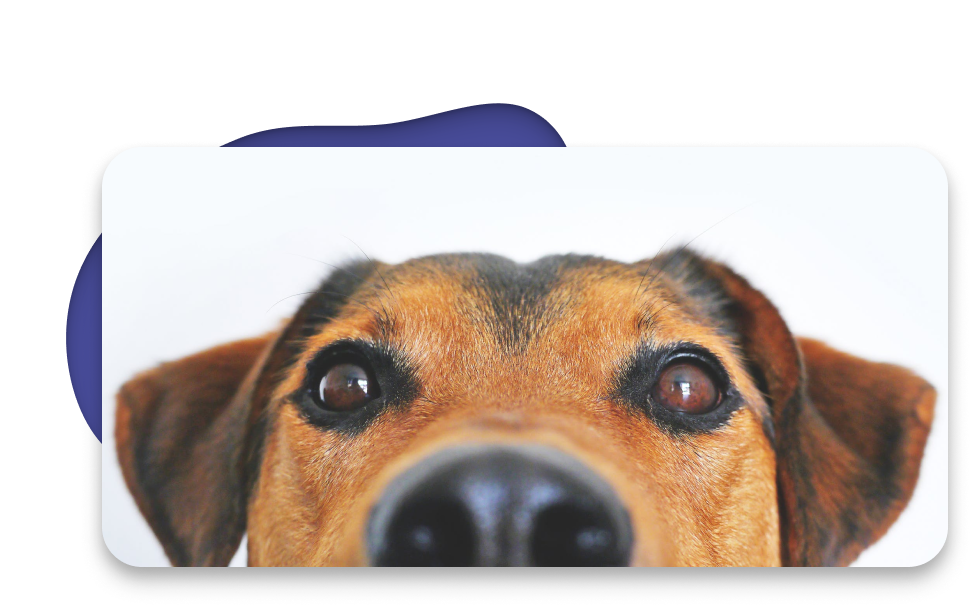
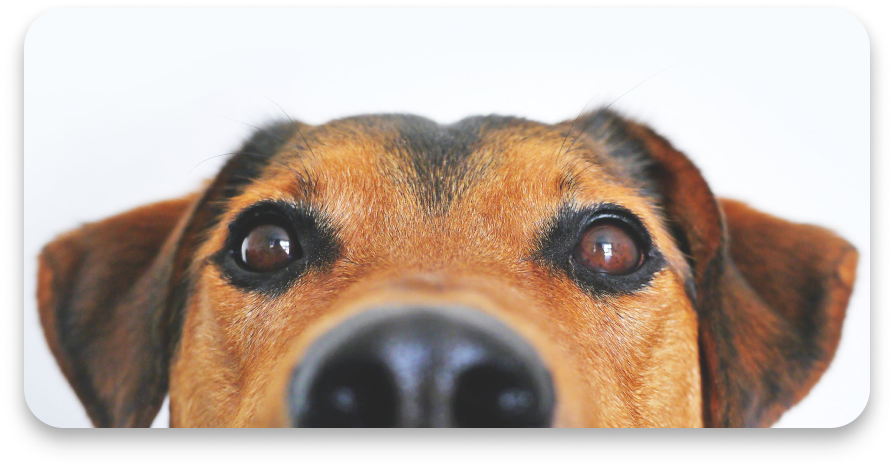
css

diff --git a/index.html b/index.html
@@ -82,19 +82,83 @@
     </div>
     <div class="container">
         <section class="who">
-            <img src="" alt="" class="img__dots">
+            <img src="img/Circles.svg" alt="" class="img__dots">
             <article class="who__content">
-            <p class="paragraph paragraph--who"><span><img src="/img/Overline.svg" alt=""></span> who we are</p>
-            <h2 class="title title--who">Nemo enim ipsam voluptatem quia voluptas in proident</h2>
-            <p class="who__description">Ut enim ad minima veniam, quis nostrum exercitationem ullam corporis suscipit
-                laboriosam, nisi ut aliquid ex ea commodi consequatur. Quis autem vel eum iure reprehenderit qui in ea
-                voluptate velit esse quam nihil molestiae consequatur, vel illum qui dolorem eum fugiat quo voluptas
-                nulla pariatur.
-            </p>
+                <div class="name-section">
+                    <span><svg width="28" height="27" viewBox="0 0 28 27" fill="none"
+                            xmlns="http://www.w3.org/2000/svg">
+                            <path
+                                d="M11.2718 6.61768L9.71338 8.17282L14.7755 13.2353L9.71338 18.2978L11.2718 19.853L17.9034 13.2353L11.2718 6.61768Z"
+                                fill="#FFFFFF" />
+                            <path
+                                d="M10.5905 10.4228L9.72474 9.55884L6.04053 13.2353L9.72474 16.9118L10.5905 16.0478L7.77825 13.2353L10.5905 10.4228Z"
+                                fill="#FFFFFF" />
+                        </svg></span>
+                    <p class="paragraph paragraph--who">who we are</p>
+                </div>
+
+                <h2 class="title title--who">Nemo enim ipsam voluptatem quia voluptas in proident</h2>
+                <p class="who__description">Ut enim ad minima veniam, quis nostrum exercitationem ullam corporis
+                    suscipit
+                    laboriosam, nisi ut aliquid ex ea commodi consequatur. Quis autem vel eum iure reprehenderit qui in
+                    ea
+                    voluptate velit esse quam nihil molestiae consequatur, vel illum qui dolorem eum fugiat quo voluptas
+                    nulla pariatur.
+                </p>
+                <img src="img/Blob-who.png" alt="blob" class="who__img">
+                <img src="img/dog.png" alt="dog" class="who__img">
             </article>
-            <img src="" alt="" class="who__img">
         </section>
     </div>
+    <div class="container">
+        <section class="promise">
+            <div class="name-section">
+                <span><img src="img/Overline.svg" alt="Overline"></span>
+                <p class="paragraph paragraph--promise">
+                    OUR PROMISE TO YOU</p>
+            </div>
+            <h2 class="title title--promise">Sed perspiciatis omnis iste natus</h2>
+            <div class="promise__cards">
+                <article class="promise__card">
+                    <img src="img/dog_love.svg" alt="dog_love">
+                    <div class="promise__card-content">
+                        <h3 class="card__title">24/7 Love & Care</h3>
+                        <p class="card__description">At vero eos et accusamus et iusto odio dignissimos ducimus qui
+                            blanditiis praesentium corrupti quos dolores et quas.</p>
+                    </div>
+                </article>
+                <article class="promise__card">
+                    <img src="img/dog_vet.svg" alt="dog_love">
+                    <div class="promise__card-content">
+                        <h3 class="card__title">24/7 Love & Care</h3>
+                        <p class="card__description">Dolorem ipsum quia dolor sit amet, consectetur, adipisci velit, sed
+                            quia non numquam eius modi tempora incidunt.</p>
+                    </div>
+                </article>
+                <article class="promise__card">
+                    <img src="img/dog_stream.svg" alt="dog_love">
+                    <div class="promise__card-content">
+                        <h3 class="card__title">24/7 Love & Care</h3>
+                        <p class="card__description">Quis autem vel eum iure reprehenderit qui in ea voluptate velit
+                            esse quam nihil molestiae consequatur illum.</p>
+                    </div>
+                </article>
+            </div>
+        </section>
+    </div>
+    <div class="wrapper-ball">
+        <section class="ball">
+        <img src="img/jump-dog.png" alt="jumping dog" class="img__ball">
+        <div class="ball__content">
+            <h2 class="title title--ball">Nemo enim ipsam voluptatem quia voluptas in proident</h2>
+            <a href="#" class="button button--main">Make an appointment</a>
+        </div>
+        <img src="img/tennis ball.png" alt="ball" class="img__tennis-ball">
+    </section>
+    </div>
+    
+    </div>
+
 
 
 

diff --git a/style.css b/style.css
@@ -5,8 +5,13 @@
 }
 body {
     font-family: "Roboto", sans-serif;
+    overflow-x: hidden;
 }
 .button {
+    width: 210px;
+    height: 48px;
+    display: flex;
+    align-items: center;
     padding: 17px 33px;
     background-color: #f2726f;
     color: #fff;
@@ -62,10 +67,9 @@ body {
 
 .dropdown-content a {
     display: block;
-    color:#000000;
+    color: #000000;
     padding: 12px 16px;
     text-decoration: none;
-    
 }
 
 .dropdown a:hover {
@@ -78,6 +82,7 @@ body {
 /* HEADER */
 
 .wrapper-header {
+    position: relative;
     background-image: url(img/bg-main.png);
     background-size: cover;
     background-position: center;
@@ -87,11 +92,11 @@ body {
     max-width: 1022px;
     margin-left: auto;
     margin-right: auto;
-    padding-top: 26px;
 }
 .contacts {
     display: flex;
     justify-content: space-between;
+    padding-top: 26px;
     margin-bottom: 28px;
 }
 .logo {
@@ -141,7 +146,6 @@ body {
     text-decoration: none;
     color: #000000;
     margin-right: 37px;
-    
 }
 .nav__item:hover {
     transition: all 0.2s;
@@ -164,4 +168,141 @@ body {
     margin-bottom: 48px;
 }
 .main {
+}
+/* Who */
+.who {
+    position: relative;
+    bottom: 25em;
+}
+.img__dots {
+    position: relative;
+    bottom: -15em;
+    left: 90%;
+    z-index: 1;
+}
+.who__content {
+    max-width: 1020px;
+    margin-right: auto;
+    margin-left: auto;
+    background: #5d62b5;
+    border-radius: 40px;
+    padding: 100px 87px 0 60px;
+}
+.paragraph {
+    color: #f5f5f5;
+    text-transform: uppercase;
+    font-weight: 700;
+    font-size: 12px;
+    line-height: 24px;
+}
+.name-section {
+    display: flex;
+    align-items: center;
+    margin-bottom: 33px;
+}
+.name-section span {
+    margin-right: 16px;
+}
+.paragraph--who {
+}
+.title {
+    font-weight: 900;
+    font-size: 36px;
+    line-height: 42px;
+    color: #ffffff;
+    margin-bottom: 36px;
+}
+.title--who {
+}
+.who__description {
+    font-weight: 400;
+    font-size: 16px;
+    line-height: 24px;
+    letter-spacing: 0.15px;
+    color: #f5f5f5;
+    margin-bottom: 26px;
+}
+.who__img {
+}
+.who__img:last-child {
+    position: relative;
+    bottom: 20em;
+    margin-bottom: -50%;
+}
+/* Promise */
+.promise {
+    margin-top: -20%;
+    margin-bottom: 122px;
+}
+.name-section {
+}
+
+.paragraph--promise {
+    color: #5d62b5;
+}
+.title--promise {
+    color: #000000;
+}
+.promise__cards {
+    display: flex;
+}
+.promise__card {
+    display: flex;
+    margin-right: 27px;
+}
+.promise__card:last-child {
+    margin-right: 0;
+}
+.promise__card img {
+    vertical-align: top;
+    margin-right: 23px;
+}
+.promise__card-content {
+}
+.card__title {
+    font-weight: 900;
+    font-size: 19px;
+    line-height: 26px;
+    color: #f2726f;
+    margin-bottom: 20px;
+}
+.card__description {
+    font-weight: 400;
+    font-size: 16px;
+    line-height: 24px;
+    letter-spacing: 0.15px;
+    color: #4b4b4b;
+    width: 235px;
+}
+/* Ball */
+.wrapper-ball {
+    background-image: url(/img/bg-promiss.png);
+    background-repeat: no-repeat;
+    background-position: center;
+    background-size: cover;
+    padding-top: 44px;
+    margin: 0;
+}
+.ball {
+    display: flex;
+    align-items: center;
+    max-width: 1352px;
+    margin-left: auto;
+    margin-right: auto;
+}
+.img__ball {
+    margin-right: 72px;
+}
+.ball__content {
+    display: flex;
+    flex-direction: column;
+    margin-right: 42px;
+    margin-bottom: 32px;
+}
+.title--ball {
+    width: 411px;
+}
+.img__tennis-ball {
+   
+   
 }
